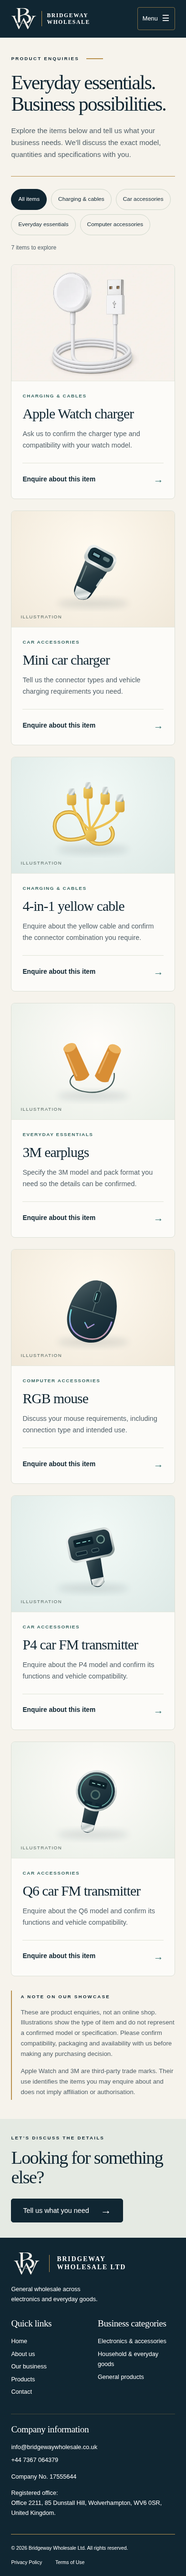
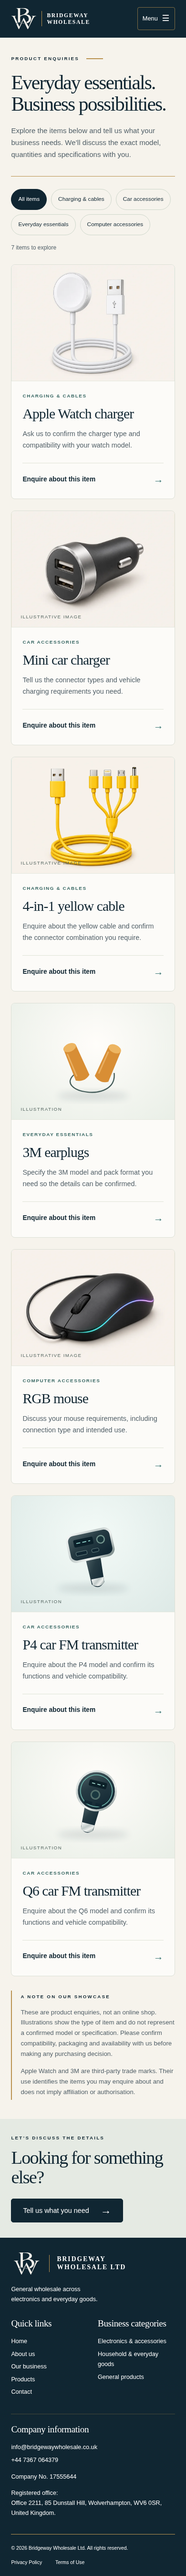
Add labelled studio illustrations for three generic product cards

diff --git a/public/app.js b/public/app.js
@@ -14,7 +14,7 @@ const form=()=>`<form id="enquiry" novalidate><div class="form-heading"><span cl
 const contactSection=()=>`<section class="contact-band" aria-labelledby="talk"><div class="contact-picture">${photo('warehouse-contact')}</div><div class="container contact-grid"><div class="contact-copy"><span class="eyebrow">LET’S CONNECT</span><h2 id="talk">Let’s talk<br> business.</h2><span class="gold-rule"></span><p>Have a wholesale requirement or a general enquiry? Tell us what you’re looking for, and we can discuss the details.</p><div class="contact-direct" aria-label="Contact details">${directContact}</div></div>${form()}</div></section>`;
 const steps=`<section class="steps container"><span class="eyebrow">HOW TO ENQUIRE <i></i></span><div class="steps-grid">${[['Tell us what you need.','Give us an overview of the goods you’re looking for and your business requirements.'],['Discuss the details.','We’ll go through your requirements with you and clarify the key details.'],['Agree the next steps.','Once the requirements are clear, we can discuss a suitable way forward.']].map((s,i)=>`<div class="step"><span class="step-number">0${i+1}</span><div><h3>${s[0]}</h3><p>${s[1]}</p></div></div>`).join('')}</div></section>`;
 const businessCards=`<div class="category-grid">${categories.map((c,i)=>`<a class="category-card" href="/our-business#${c.id}">${photo(c.image,'',c.alt)}<div class="category-overlay"><span class="category-index">0${i+1} /</span><h3>${c.name}</h3><span class="gold-rule"></span><p>${c.text}</p><span class="category-arrow" aria-hidden="true">→</span></div></a>`).join('')}</div>`;
-const productCard=(product)=>`<article class="product-card" data-category="${product.category}"><div class="product-visual"><img src="/products/${product.image||`${product.illustration}.svg`}" width="560" height="400" alt="${product.imageAlt||`Illustration of ${product.name}; actual model may differ`}" loading="lazy">${product.image?'':'<span class="product-art-label">Illustration</span>'}</div><div class="product-card-body"><p class="product-category">${product.category}</p><h3>${product.name}</h3><p class="product-description">${product.description}</p><a class="product-enquiry" href="/contact?product=${product.id}#enquiry" aria-label="Enquire about ${product.name}">Enquire about this item <span aria-hidden="true">→</span></a></div></article>`;
+const productCard=(product)=>`<article class="product-card" data-category="${product.category}"><div class="product-visual"><img src="/products/${product.image||`${product.illustration}.svg`}" width="560" height="400" alt="${product.imageAlt||`Illustration of ${product.name}; actual model may differ`}" loading="lazy">${product.imageLabel||!product.image?`<span class="product-art-label">${product.imageLabel||'Illustration'}</span>`:''}</div><div class="product-card-body"><p class="product-category">${product.category}</p><h3>${product.name}</h3><p class="product-description">${product.description}</p><a class="product-enquiry" href="/contact?product=${product.id}#enquiry" aria-label="Enquire about ${product.name}">Enquire about this item <span aria-hidden="true">→</span></a></div></article>`;
 const featuredProducts=`<section class="featured-products container"><div class="section-heading"><div><span class="eyebrow">PRODUCT ENQUIRIES <i></i></span><h2>A closer look at<br>what you need.</h2></div><div class="product-section-copy"><p>Explore a selection of items, then talk to us about the details your business needs.</p><a class="text-link" href="/products">Explore all products <span aria-hidden="true">→</span></a></div></div><div class="product-grid">${[productData[0],productData[2],productData[4]].map(productCard).join('')}</div><p class="product-disclaimer">Product visuals are indicative. Exact models, specifications and availability are confirmed on enquiry.</p></section>`;
 const home=`<section class="hero"><div class="hero-photo">${photo('warehouse')}<div class="hero-arc"></div><div class="feature-card">A broader<br> view of<br> wholesale.<span class="gold-rule"></span></div></div><div class="container hero-inner"><div class="hero-copy"><span class="eyebrow">UK GENERAL WHOLESALE <i></i></span><h1>Connecting businesses.<br> Opening <em>possibilities.</em></h1><p>General wholesale across electronics and everyday goods. Speak to us about your business requirements.</p><div class="hero-actions"><a class="button" href="/contact#enquiry">Discuss your requirements <span aria-hidden="true">→</span></a><a class="text-link" href="/about">About us</a></div></div></div></section><section class="intro container"><span class="section-number">01</span><div><span class="eyebrow">ABOUT BRIDGEWAY</span><h2>A straightforward<br> approach to wholesale.</h2></div><div class="intro-text"><p>Bridgeway Wholesale Ltd is a UK general wholesale company working across electronics, accessories and assorted everyday goods.</p><p>We bring different business categories together through one point of contact, starting with a clear understanding of your requirements.</p></div></section><section class="business-section"><div class="container"><div class="section-heading"><div><span class="eyebrow">OUR BUSINESS <i></i></span><h2>Different categories.<br> One point of contact.</h2></div><p>From electronics to everyday essentials, explore the areas we work across and talk to us about the goods your business needs.</p></div>${businessCards}</div></section>${featuredProducts}${steps}${contactSection()}`;
 const pageHero=(label,title,copy)=>`<section class="page-hero container"><span class="eyebrow">${label} <i></i></span><h1>${title}</h1><p>${copy}</p></section>`;

diff --git a/public/products.js b/public/products.js
@@ -14,14 +14,20 @@ const productData = [
     "name": "Mini car charger",
     "category": "Car accessories",
     "description": "Tell us the connector types and vehicle charging requirements you need.",
-    "illustration": "car-charger"
+    "illustration": "car-charger",
+    "image": "mini-car-charger-studio-illustration.webp",
+    "imageAlt": "Studio-style illustration of a generic compact car USB charger; actual model and ports may differ",
+    "imageLabel": "Illustrative image"
   },
   {
     "id": "4-in-1-yellow-cable",
     "name": "4-in-1 yellow cable",
     "category": "Charging & cables",
     "description": "Enquire about the yellow cable and confirm the connector combination you require.",
-    "illustration": "cable"
+    "illustration": "cable",
+    "image": "yellow-cable-studio-illustration.webp",
+    "imageAlt": "Studio-style illustration of a yellow multi-ended charging cable; actual connector combination must be confirmed",
+    "imageLabel": "Illustrative image"
   },
   {
     "id": "3m-earplugs",
@@ -35,7 +41,10 @@ const productData = [
     "name": "RGB mouse",
     "category": "Computer accessories",
     "description": "Discuss your mouse requirements, including connection type and intended use.",
-    "illustration": "mouse"
+    "illustration": "mouse",
+    "image": "rgb-mouse-studio-illustration.webp",
+    "imageAlt": "Studio-style illustration of a generic black wired mouse with RGB edge lighting; actual model may differ",
+    "imageLabel": "Illustrative image"
   },
   {
     "id": "p4-car-fm",

diff --git a/PRODUCT-IMAGE-RESEARCH.md b/PRODUCT-IMAGE-RESEARCH.md
@@ -1,0 +1,22 @@
+# Product image sourcing status — 6 November 2026
+
+## Research access
+
+The task requested online research and studio-style product imagery. Requests through the configured proxy to `https://www.bing.com/search?q=P4+Q6+car+FM+transmitter` and `https://www.3m.co.uk/` were denied with HTTP 403. No search results, manufacturer images, exact models or third-party image licences were verified. Network additions for `www.bing.com` and `www.3m.co.uk` were saved in the environment draft while preserving existing domains. They have not been observed active in the runtime. Do not describe this research as completed or the generic illustrations as sourced product photographs.
+
+## Work that could proceed
+
+Three generic studio-style illustrations were created with the image-generation tool, using the edited Apple Watch charger image solely as the lighting/background reference. The website explicitly labels these “Illustrative image”. They do not establish actual ports, connector combinations, dimensions or model specifications. All use an ivory backdrop, soft shadows, consistent landscape framing and 1000 px WebP delivery.
+
+| Item | Current result | Remaining input |
+|---|---|---|
+| Mini car charger | Generic studio illustration installed | Confirm actual body/ports or supply reference photo |
+| 4-in-1 yellow cable | Generic studio illustration installed | Confirm the actual connector combination; pictured connectors are not verified |
+| RGB mouse | Generic studio illustration installed | Confirm actual model and wired/wireless configuration |
+| 3M earplugs | Existing labelled SVG retained | Exact 3M model/packaging or owner reference photo |
+| P4 car FM transmitter | Existing labelled SVG retained | Manufacturer and reference photo/supplier link |
+| Q6 car FM transmitter | Existing labelled SVG retained | Manufacturer and reference photo/supplier link |
+
+## Resume
+
+When network settings are actually applied, retry the affected read-only research operations and identify authoritative product/supplier sources. Record exact source URLs, image rights and model matches before reuse; do not assume marketplace photographs are licensed for this site. If the owner supplies original photos, use them as the editing reference and preserve recognisable product geometry. Do not fabricate branded 3M or P4/Q6 model-specific imagery from ambiguous names.

diff --git a/IMAGE-SOURCES.md b/IMAGE-SOURCES.md
@@ -27,3 +27,15 @@ The seven SVGs under `public/products/` (watch, car-charger, cable, earplugs, mo
 `public/products/apple-watch-charger-studio.webp` replaces the watch illustration in rendered product cards. Source: the owner's attached charger image in this chat. The image-editing tool produced an AI-assisted studio-style edit preserving the recognisable white charging puck, USB-A plug and cable, removing promotional badges/text and arranging a coiled cable on warm ivory with soft shadows. This is edited product imagery, not an untouched source photograph. No series compatibility, cable-length, certification or official-brand claims were copied into the website.
 
 The generated full-size PNG remains at `/workspace/generated_images/exec-694459bd-586b-4f14-9dda-77519dbabd71.png`. The web derivative is 1000 × 714 WebP, approximately 15 KB, converted with ImageMagick for delivery. Other products retain their labelled vector illustrations. The unused `watch.svg` is retained as a legacy asset.
+
+## Generic studio illustrations — 6 November 2026
+
+The following are AI-generated illustrative visuals, not downloaded online product photographs. The edited watch charger was used only as a style reference. Research was blocked; no exact product/connector configuration is confirmed. All three cards retain the visible “Illustrative image” label and descriptive alt text. Full source PNGs remain outside the checkout, with optimised 1000 px WebP derivatives committed for delivery.
+
+| Website asset | Generated source PNG | Approximate size |
+|---|---|---|
+| `public/products/mini-car-charger-studio-illustration.webp` | `/workspace/generated_images/exec-2c43089e-67ae-411b-8918-3622cb39b747.png` | 22 KB |
+| `public/products/yellow-cable-studio-illustration.webp` | `/workspace/generated_images/exec-e5d6822d-d946-4871-beff-848101a2efd4.png` | 25 KB |
+| `public/products/rgb-mouse-studio-illustration.webp` | `/workspace/generated_images/exec-359f8270-b3ff-4399-86a0-92bcab637aca.png` | 23 KB |
+
+3M earplugs, P4 and Q6 retain their existing vector illustrations pending model/reference confirmation. See PRODUCT-IMAGE-RESEARCH.md for the blocked research and remaining inputs.

diff --git a/QA.md b/QA.md
@@ -66,3 +66,9 @@ The server now adds a content hash to each app.js/products.js/styles.css URL in 
 ## Apple Watch charger image update — 6 November 2026
 
 Replaced the charger's vector illustration with a studio-style edited version of the owner-supplied image. The photo card has meaningful edited-image alternative text and no incorrect “Illustration” badge. Chromium confirmed the 1000 px WebP loads on both Home and Products, no horizontal overflow at 320/390/768/1440 px, appropriate desktop/mobile framing and the correct prefilled enquiry destination. The existing product filters/artwork/enquiry browser test passed again. Evidence: `artifacts/apple-watch-charger-desktop.png` and `artifacts/apple-watch-charger-mobile.png`; full Products screenshots were refreshed. Production deployment has not been independently verified.
+
+## Partial studio-imagery update — 6 November 2026
+
+Installed three explicitly labelled, generic studio illustrations for the mini car charger, yellow multi-ended cable and RGB mouse. These are not verified manufacturer photographs. P4, Q6 and 3M artwork remains unchanged pending exact model/source information. Online research attempts were denied by the environment proxy (HTTP 403); research and all six model-specific photo updates are not complete.
+
+Chromium verified each new 1000 px image loads, its illustrative label is visible, Home uses the new cable/mouse visuals, and no horizontal overflow occurs at 320/375/390/768/1024/1440/1920 px. The existing product filters/artwork/all-seven-enquiry-links browser check passed. Desktop/tablet/mobile Products screenshots were refreshed and desktop was visually inspected. The three WebP files total approximately 70 KB. No live Vercel deployment was inspected. Source/provenance and unresolved inputs are documented in PRODUCT-IMAGE-RESEARCH.md and IMAGE-SOURCES.md.

diff --git a/README.md b/README.md
@@ -69,3 +69,5 @@ The local SVG illustrations in `public/products/` were authored for this site an
 Served HTML versions the app scripts and stylesheet using their content hashes. HTML, JavaScript and CSS use `Cache-Control: no-cache` so later deployments do not leave visitors running hour-old code under unchanged URLs. Images are cached separately. If production still shows older content, first confirm that Vercel's active production deployment points to the intended `main` commit; pushing source is not proof of a successful deployment. Reload an existing browser tab after that deployment becomes Ready.
 
 The Apple Watch charger now uses `public/products/apple-watch-charger-studio.webp`, a professionally restyled, AI-assisted edit of the owner's supplied source image. Its card omits the illustration badge; the remaining six products still use labelled vector illustrations. Optional `image` and `imageAlt` fields in `public/products.js` override the SVG fallback, allowing subsequent supplied product images to be added consistently. Image provenance is recorded in IMAGE-SOURCES.md.
+
+Three other cards now use clearly labelled generic studio illustrations (mini car charger, yellow cable and RGB mouse). `imageLabel` in the product data retains the visible illustration designation for these photorealistic concepts. The 3M/P4/Q6 cards still use vector illustrations pending model confirmation. See PRODUCT-IMAGE-RESEARCH.md: online research is blocked and exact product photography is not yet complete.
